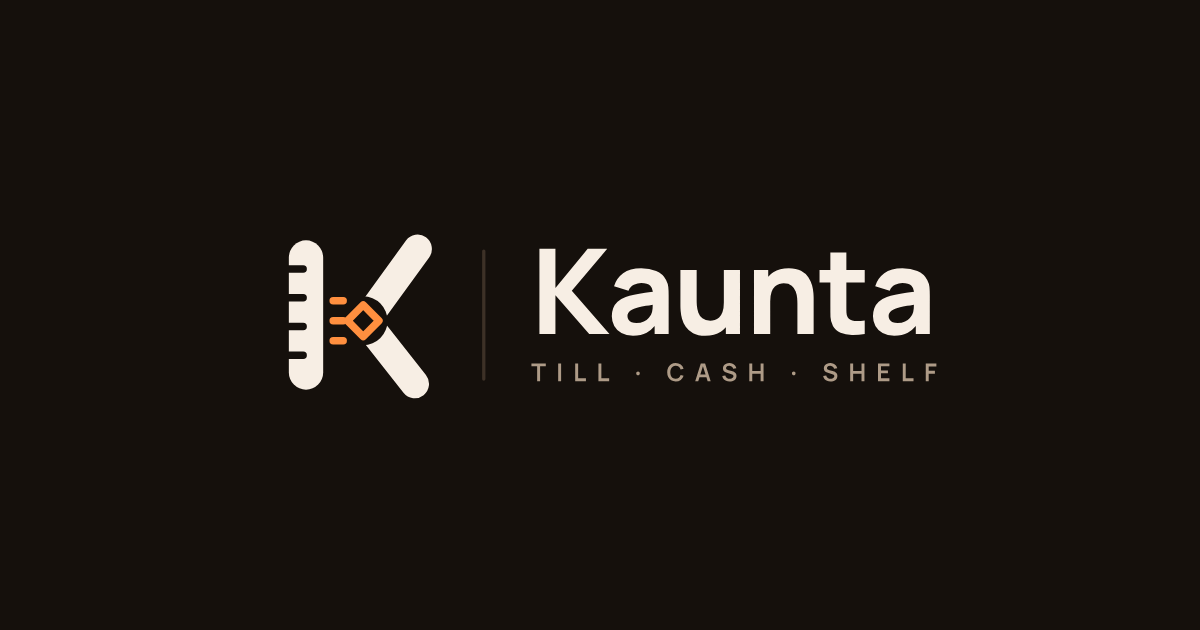
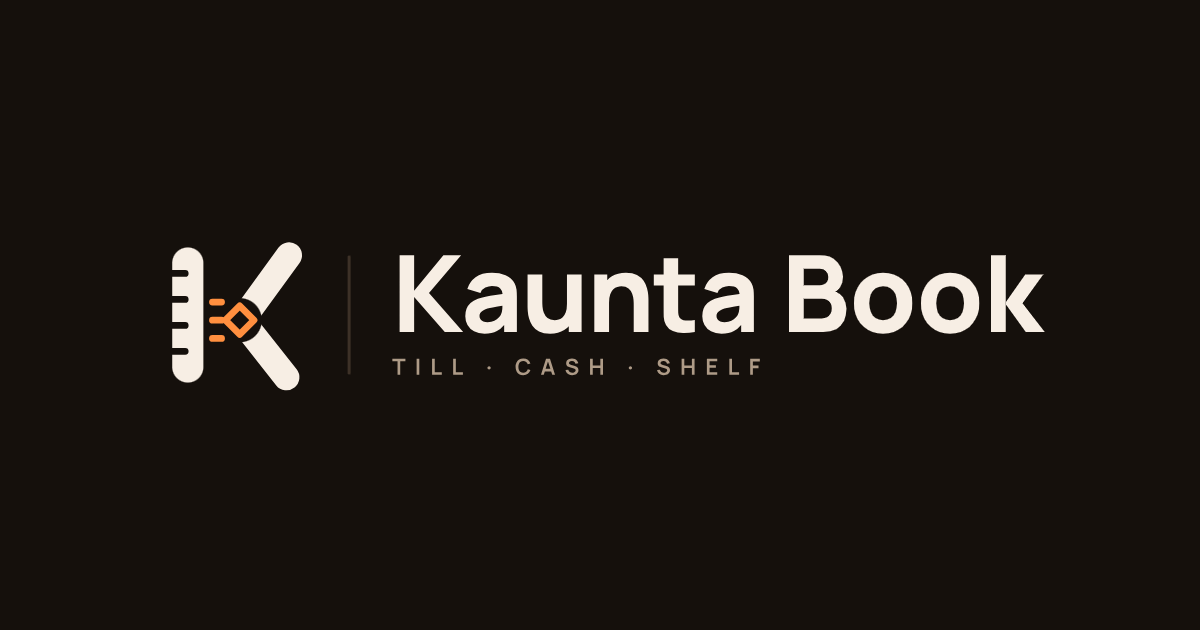
Rename the product to Kaunta Book
- Page title, installed-app name, landing copy, install prompts and other
  places where "Kaunta" names the app, in English and Kiswahili. "Kaunta"
  stays where it means the team that runs the platform (/super).
- Logo: "Book" added to the lockups, outlined from Manrope ExtraBold by
  scripts/brand-wordmark.mjs (scripts/font-outline.mjs reads the WOFF with
  no dependencies); stacked lockup re-centred; stale C2PA block removed;
  share image redrawn.
- Playwright: 15 s default expect timeout (admin's demo builds the sample
  night on first open, slow with every test in parallel).

Changed region(s): [[0.1233, 0.3619, 0.8633, 0.6333], [0.4008, 0.573, 0.6475, 0.6032], [0.6783, 0.573, 0.8017, 0.6032]]

diff --git a/index.html b/index.html
@@ -4,13 +4,13 @@
     <meta charset="utf-8" />
     <meta name="viewport" content="width=device-width, initial-scale=1, viewport-fit=cover" />
     <meta name="theme-color" content="#15100C" />
-    <title>Kaunta · Till · Cash · Shelf</title>
-    <meta name="description" content="Kaunta shows you when your till, your cash, and your shelf don’t agree." />
+    <title>Kaunta Book · Till · Cash · Shelf</title>
+    <meta name="description" content="Kaunta Book shows you when your till, your cash, and your shelf don’t agree." />
     <link rel="icon" href="/favicon.svg" type="image/svg+xml" />
     <link rel="alternate icon" href="/favicon.ico" sizes="16x16 32x32 48x48" />
     <link rel="apple-touch-icon" href="/brand/apple-touch-icon-180.png" />
-    <meta property="og:title" content="Kaunta" />
-    <meta property="og:description" content="Kaunta shows you when your till, your cash, and your shelf don’t agree." />
+    <meta property="og:title" content="Kaunta Book" />
+    <meta property="og:description" content="Kaunta Book shows you when your till, your cash, and your shelf don’t agree." />
     <meta property="og:image" content="/brand/og-dark-1200x630.png" />
     <meta property="og:image:width" content="1200" />
     <meta property="og:image:height" content="630" />

diff --git a/src/components/Icon.tsx b/src/components/Icon.tsx
@@ -55,13 +55,13 @@ export function Logo({ size = 30, label }: { size?: number; label?: string }) {
 }
 
 /** The logo with the wordmark (outlined artwork, so no font needed), in the scheme for the background. */
-/** lockup-horizontal-*.svg viewBox: 428.2 × 128. */
-const HORIZONTAL_RATIO = 428.2 / 128;
+/** lockup-horizontal-*.svg viewBox: 624.26 × 128 (Kaunta Book; scripts/brand-wordmark.mjs added "Book"). */
+const HORIZONTAL_RATIO = 624.26 / 128;
 
 export function Lockup({ kind, scheme, height }: { kind: 'stacked' | 'horizontal'; scheme: 'dark' | 'light'; height: number }) {
   // Intrinsic sizes from the SVG viewBoxes, so the space is kept before the image loads.
-  const ratio = kind === 'stacked' ? 236.6 / 241.4 : HORIZONTAL_RATIO;
-  return <img className="k-lockup" src={`/brand/lockup-${kind}-${scheme}.svg`} alt="Kaunta · Till · Cash · Shelf" height={height} width={Math.round(height * ratio)} />;
+  const ratio = kind === 'stacked' ? 410.87 / 241.4 : HORIZONTAL_RATIO;
+  return <img className="k-lockup" src={`/brand/lockup-${kind}-${scheme}.svg`} alt="Kaunta Book · Till · Cash · Shelf" height={height} width={Math.round(height * ratio)} />;
 }
 
 type TokenIcon = Exclude<keyof typeof tokens.icons, 'note' | 'logo-tally'>;

diff --git a/src/counter/PairScreen.tsx b/src/counter/PairScreen.tsx
@@ -22,7 +22,7 @@ export function PairingGate({ enabled, children }: { enabled: boolean; children:
   if (!enabled) return <>{children}</>;
   if (!state) return null;
   // Kaunta suspended the bar: nobody signs in (whoever was in is out) until access is given back.
-  if (stopped === 'suspended') return <SuspendedBar name={bar?.name ?? 'Kaunta'} />;
+  if (stopped === 'suspended') return <SuspendedBar name={bar?.name ?? 'Kaunta Book'} />;
   return state.paired && state.synced ? <>{children}</> : <PairScreen paired={state.paired} />;
 }
 
@@ -45,7 +45,7 @@ export function PairScreen({ paired }: { paired: boolean }) {
         <header className="c-topbar">
           <Logo />
           <div className="c-topbar-id">
-            <strong>Kaunta</strong>
+            <strong>Kaunta Book</strong>
           </div>
         </header>
         <main className="c-body c-pair c-pair-loading">

diff --git a/src/routes/landing.test.tsx b/src/routes/landing.test.tsx
@@ -25,10 +25,10 @@ function renderLanding() {
 describe('landing', () => {
   it('shows the logo with its tagline and the promise, on Counter Night', () => {
     renderLanding();
-    const logo = screen.getByRole('img', { name: 'Kaunta · Till · Cash · Shelf' });
+    const logo = screen.getByRole('img', { name: 'Kaunta Book · Till · Cash · Shelf' });
     expect(logo).toHaveAttribute('src', '/brand/lockup-stacked-dark.svg');
     expect(screen.getByRole('heading', { level: 1 })).toContainElement(logo);
-    expect(screen.getByText('Kaunta shows you when your till, your cash, and your shelf don’t agree.')).toBeInTheDocument();
+    expect(screen.getByText('Kaunta Book shows you when your till, your cash, and your shelf don’t agree.')).toBeInTheDocument();
     expect(document.documentElement.dataset.theme).toBe('night');
   });
 

diff --git a/vite.config.ts b/vite.config.ts
@@ -16,9 +16,9 @@ export default defineConfig({
       includeAssets: ['favicon.svg', 'favicon.ico', 'brand/apple-touch-icon-180.png', 'brand/app-icon-192.png', 'brand/app-icon-512.png'],
       manifest: {
         id: '/',
-        name: 'Kaunta · Till · Cash · Shelf',
-        short_name: 'Kaunta',
-        description: 'Kaunta shows you when your till, your cash, and your shelf don’t agree.',
+        name: 'Kaunta Book · Till · Cash · Shelf',
+        short_name: 'Kaunta Book',
+        description: 'Kaunta Book shows you when your till, your cash, and your shelf don’t agree.',
         lang: 'en',
         categories: ['business', 'productivity'],
         // The landing page; the installed app goes on to the way this device used last (counter or admin).

diff --git a/src/admin/AdminLayout.tsx b/src/admin/AdminLayout.tsx
@@ -165,7 +165,7 @@ export function AdminLayout({ children, wide = true }: { children: ReactNode; wi
     <div className="a-app">
       <header className="a-header">
         <div className="a-header-top">
-          <BarSwitcher name={bar?.name ?? 'Kaunta'} day={t('nav.businessDay', { date: dayLabel(day, locale) })} />
+          <BarSwitcher name={bar?.name ?? 'Kaunta Book'} day={t('nav.businessDay', { date: dayLabel(day, locale) })} />
           <div className="a-header-tools">
             <span className="k-chip k-tone-paid a-devices">
               <Icon name="cloud-check" size={16} />

diff --git a/e2e/counter.spec.ts b/e2e/counter.spec.ts
@@ -202,7 +202,7 @@ test('a wrong PIN counts down and the 5th locks the person', async ({ page }) =>
 
 test('the landing page shows the logo, fits a phone, and leads to the counter', async ({ page }) => {
   await page.goto('/');
-  const logo = page.getByRole('img', { name: 'Kaunta · Till · Cash · Shelf' });
+  const logo = page.getByRole('img', { name: 'Kaunta Book · Till · Cash · Shelf' });
   await expect(logo).toBeVisible();
   // The artwork loaded (not a broken image).
   expect(await logo.evaluate((img: HTMLImageElement) => img.complete && img.naturalWidth > 0)).toBe(true);

diff --git a/playwright.config.ts b/playwright.config.ts
@@ -12,6 +12,9 @@ export default defineConfig({
   testDir: 'e2e',
   fullyParallel: true,
   reporter: [['list']],
+  // Admin's demo builds the whole sample night in IndexedDB on first open; with
+  // every test in parallel on one machine that can take longer than 5 s.
+  expect: { timeout: 15_000 },
   use: {
     baseURL: `http://localhost:${PORT}`,
     channel: 'chrome',

diff --git a/src/counter/BarCodeScreen.tsx b/src/counter/BarCodeScreen.tsx
@@ -56,7 +56,7 @@ export function BarCodeScreen({
       <header className="c-topbar">
         <Logo />
         <div className="c-topbar-id">
-          <strong>Kaunta</strong>
+          <strong>Kaunta Book</strong>
         </div>
       </header>
       <main className="c-body c-barcode">

diff --git a/CLAUDE.md b/CLAUDE.md
@@ -148,6 +148,12 @@ Last updated: 2026-11-17 (everything on the server: accounts, Kaunta, limits, su
 - Not yet: keys not set; never sent through real OneSignal (sending tested with stand-in `net`/`vault` in `supabase/notifications.test.ts`).
 - Tests: `supabase/notifications.test.ts`, `src/lib/push.test.tsx`.
 
+## Renamed Kaunta Book (2026-11-19)
+
+- The product is **Kaunta Book**: page title, installed-app name (`short_name` "Kaunta Book"), landing copy, install prompts, "Recorded in Kaunta Book", the counter's top bar before pairing, and the logo. **"Kaunta" stays** where it means the company/team that runs the platform (`/super` "Kaunta platform", "Kaunta set your password", "Kaunta has suspended…", the `kaunta` actor). Lowercase Kiswahili "kaunta" (counter) is unchanged.
+- Logo: `scripts/brand-wordmark.mjs` added "Book" to `public/brand/lockup-*.svg`, outlined from Manrope ExtraBold (`scripts/font-outline.mjs`, a dependency-free WOFF reader) after the original kerned "Kaunta"; stacked lockup re-centred; the stale C2PA credentials removed. `og-dark-1200x630.png` redrawn from the new lockup. The source files in `kaunta-handoff/design/logo` are the originals.
+- Why not plain "Kaunta": another Kenyan product (KRA/eTIMS compliance) uses it, including kaunta.vercel.app.
+
 ## How step 5 is put together
 
 - Admin has its own local store (Dexie, `kaunta-admin`, or `kaunta-admin-demo` in demo mode). Screens read only from it.

diff --git a/README.md b/README.md
@@ -1,8 +1,8 @@
-# Kaunta
+# Kaunta Book
 
-**Kaunta shows you when your till, your cash, and your shelf don't agree.**
+**Kaunta Book shows you when your till, your cash, and your shelf don't agree.**
 
-Kaunta is a mobile-first, installable web app (PWA) for bars in Kenya. Counter staff record what was served and confirm that it was paid for. Owners and managers see where money or stock went missing. Customers pay the bar directly by M-Pesa Till or cash. **Kaunta never takes or moves payments.**
+Kaunta Book is a mobile-first, installable web app (PWA) for bars in Kenya. It is live at https://kaunta-app.vercel.app. Counter staff record what was served and confirm that it was paid for. Owners and managers see where money or stock went missing. Customers pay the bar directly by M-Pesa Till or cash. **Kaunta Book never takes or moves payments.**
 
 It works in English and Kiswahili. It keeps working offline: every counter write goes to a local outbox first and syncs when the phone is back online.
 
